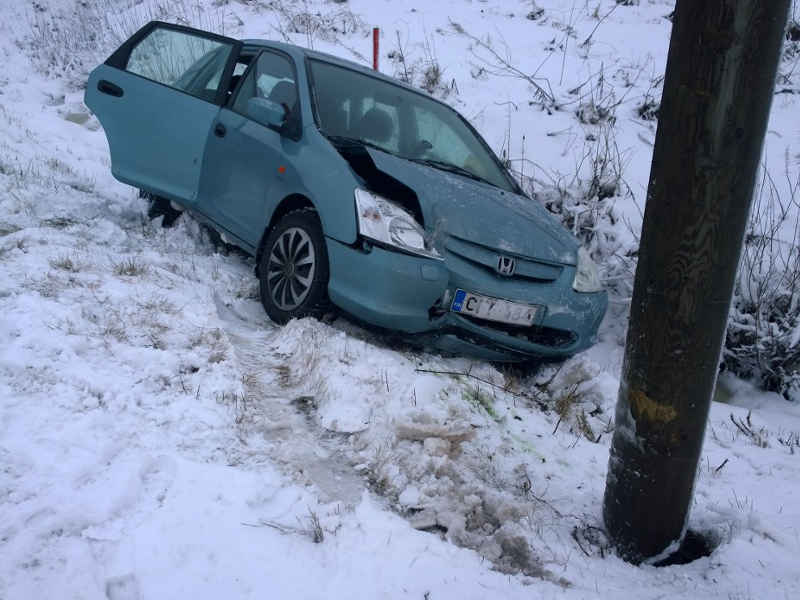
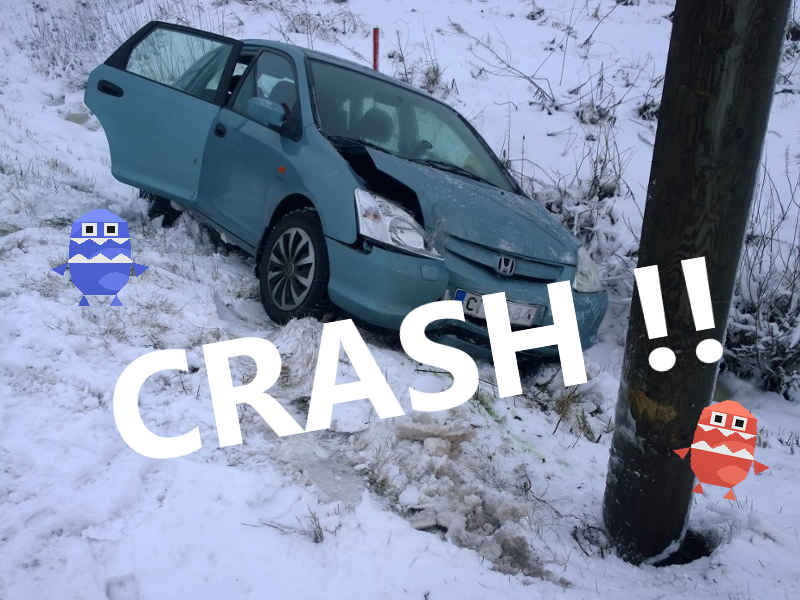
car safe

diff --git a/mini-games/crushTheHonda/Game.js b/mini-games/crushTheHonda/Game.js
@@ -6,7 +6,7 @@ var game;
 var cursors;
 var speed = 200;
 //var maxScore = 5;
-var maxTime = 10;
+var maxTime = 5;
 var startTime = 1;
 var startingText = "Don't crush the HONDA !";
 var startingTextComponent;
@@ -34,6 +34,7 @@ function preload()
 	game.load.image('ball', './../../assets/Ball.png');
 	game.load.image('ballBlue', './../../assets/BallBlue.png');
         game.load.image('honda_crush', './../../assets/honda_crush.jpg');
+        game.load.image('honda_safe', './../../assets/honda_safe.jpg');
 }
 
 
@@ -176,6 +177,7 @@ function endGame(){
 	
 	if(jammu.score > jimmu.score){
 		result = 1;
+                game.add.sprite(0, 0, 'honda_safe');
             }
 	else if(jammu.score < jimmu.score){
 		result = 2;

diff --git a/lifecycle-manager/JavaScriptEngine/Init.js b/lifecycle-manager/JavaScriptEngine/Init.js
@@ -14,7 +14,7 @@
 // |___/\_, | |___/\__,_|_|_|_|_|_|  
 //      |__/                         
 
-var defaultGameNumber = -1; // -1 niin randomi päällä
+var defaultGameNumber = 2; // -1 niin randomi päällä
 
 var games = [
     "./../mini-games/purpleBall/index.html",
